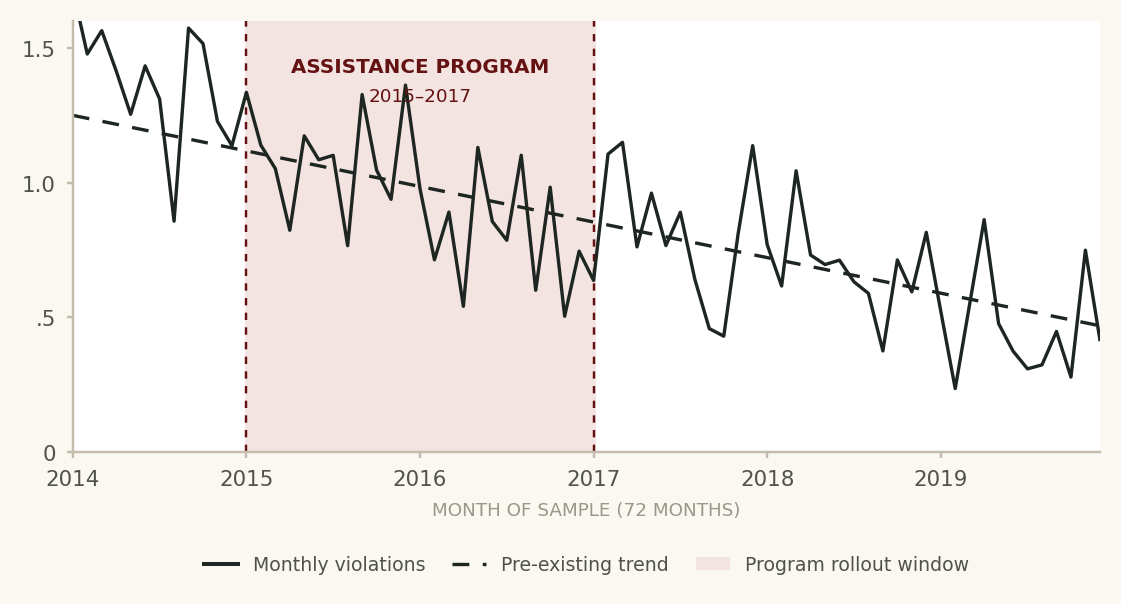
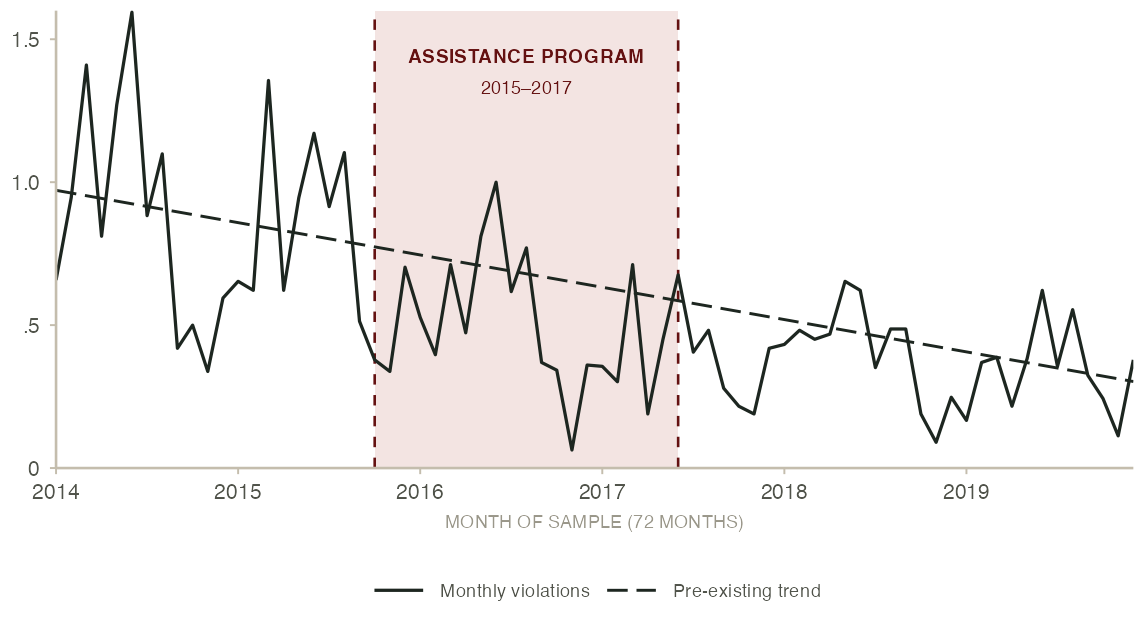
Style and layout fixes for EPA compliance workshops brief
- Add EIL logo (maroon) to masthead, replacing text placeholder
- Tighten spacing throughout to fit content on one page
- White page and figure backgrounds; reduced box padding
- Generate fig1 from real data; fix data path in make-fig1.R
- Use smaller font for implications columns; add \impcolsize command

Changed region(s): [[0.0, 0.0298, 0.9991, 0.8642], [0.1873, 0.894, 0.8742, 0.9536], [0.0312, 0.5066, 0.0624, 0.5364]]

diff --git a/briefs/2026-epa-compliance-workshops/text/_style.tex b/briefs/2026-epa-compliance-workshops/text/_style.tex
@@ -19,7 +19,7 @@
 \definecolor{warmrule}{HTML}{D8D2C2}   % thin warm-grey dividers
 \definecolor{paper}{HTML}{FAF8F1}      % warm page background
 
-\pagecolor{paper}                      % comment out for plain white pages
+% \pagecolor{paper}                    % uncomment for warm off-white background
 
 % ---- Fonts ----------------------------------------------------------
 % Source: Source Sans 3 / Source Serif 4. The CTAN packages below provide
@@ -32,7 +32,7 @@
 % ---- Page -----------------------------------------------------------
 \pagestyle{empty}
 \setlength{\parindent}{0pt}
-\setlength{\parskip}{6pt}
+\setlength{\parskip}{2pt}
 % default body size/colour (12.5px -> 9.4pt, line-height 1.45)
 \AtBeginDocument{\color{body}\fontsize{9.4pt}{13.6pt}\selectfont}
 
@@ -43,8 +43,10 @@
 \usepackage{tcolorbox}
 \tcbuselibrary{skins}
 
-% smaller size used inside the two-/three-column regions (11px -> 8.25pt)
-\newcommand{\colsize}{\color{muted}\fontsize{8.25pt}{11.7pt}\selectfont}
+% column regions — same size as body
+\newcommand{\colsize}{\color{muted}\fontsize{9.4pt}{13.6pt}\selectfont}
+% implications columns — smaller, matches target design
+\newcommand{\impcolsize}{\color{muted}\fontsize{8.25pt}{11.7pt}\selectfont}
 
 % =====================================================================
 %  MACROS
@@ -59,27 +61,27 @@
     \textls[200]{\MakeUppercase{#2}}%
   \end{minipage}
 
-  \vspace{6pt}
+  \vspace{2pt}
   \noindent\textcolor{ink}{\rule{\linewidth}{2.2pt}}
-  \vspace{9pt}
+  \vspace{-3pt}
 }
 
 % --- Title + citation (citation has a thin warm divider beneath) ------
 \newcommand{\brieftitle}[1]{%
-  {\color{ink}\fontsize{18pt}{19.5pt}\selectfont\bfseries\textls[-12]{#1}\par}\vspace{5pt}}
+  {\color{ink}\fontsize{18pt}{19.5pt}\selectfont\bfseries\textls[-12]{#1}\par}\vspace{3pt}}
 \newcommand{\briefcitation}[1]{%
-  {\color{cite}\fontsize{9.4pt}{12pt}\selectfont #1\par}\vspace{6pt}%
+  {\color{cite}\fontsize{9.4pt}{12pt}\selectfont #1\par}\vspace{3pt}%
   \noindent\textcolor{warmrule}{\rule{\linewidth}{0.7pt}}}
 
 % --- Section heads (13px 900 uppercase, ls 0.02em) -------------------
 \newcommand{\sectionhead}[1]{%
-  \vspace{8pt}{\color{ink}\bfseries\fontsize{9.75pt}{12pt}\selectfont
+  \vspace{2pt}{\color{ink}\bfseries\fontsize{9.75pt}{12pt}\selectfont
   \textls[20]{\MakeUppercase{#1}}\par}\vspace{1pt}}
 % with a 2px ink rule beneath (IMPLICATIONS)
 \newcommand{\sectionheadruled}[1]{%
-  \vspace{8pt}{\color{ink}\bfseries\fontsize{9.75pt}{12pt}\selectfont
+  \vspace{5pt}{\color{ink}\bfseries\fontsize{9.75pt}{12pt}\selectfont
   \textls[20]{\MakeUppercase{#1}}\par}%
-  \vspace{4pt}\noindent\textcolor{ink}{\rule{\linewidth}{1.5pt}}\vspace{5pt}}
+  \vspace{3pt}\noindent\textcolor{ink}{\rule{\linewidth}{1.5pt}}\vspace{3pt}}
 
 % --- Sub-heads -------------------------------------------------------
 % small uppercase (11px, ls 0.05em) — WHY COMPLIANCE MATTERS
@@ -88,8 +90,8 @@
   \textls[50]{\MakeUppercase{#1}}\par}\vspace{2pt}}
 % 2px ink top rule + title-case bold heading — Funding / Oversight
 \newcommand{\colhead}[1]{%
-  \noindent\textcolor{ink}{\rule{\linewidth}{1.5pt}}\par\vspace{4pt}%
-  {\color{ink}\bfseries\fontsize{9pt}{11pt}\selectfont #1\par}\vspace{2pt}}
+  \noindent\textcolor{ink}{\rule{\linewidth}{1.5pt}}\par\vspace{2pt}%
+  {\color{ink}\bfseries\fontsize{9pt}{11pt}\selectfont #1\par}\vspace{1pt}}
 
 % --- Figure title ----------------------------------------------------
 \newcommand{\figtitle}[2]{%
@@ -114,14 +116,14 @@
 \newtcolorbox{bottomline}{%
   enhanced, arc=4pt, outer arc=4pt, boxrule=0pt,
   colback=boxred, coltext=boxtext,
-  left=15pt, right=15pt, top=12pt, bottom=13pt,
+  left=7pt, right=7pt, top=7pt, bottom=7pt,
   before upper={{\fontsize{7.1pt}{9pt}\selectfont\textls[120]{%
-    \bfseries\textcolor{labeltan}{BOTTOM LINE}}}\par\vspace{6pt}%
+    \bfseries\textcolor{labeltan}{BOTTOM LINE}}}\par\vspace{3pt}%
     \fontsize{9.4pt}{13.6pt}\selectfont}}
 
 % --- Pull-quote box (serif, 13.5px -> 10.1pt, with rose border) ------
 \newtcolorbox{pullquote}{%
   enhanced, arc=4pt, outer arc=4pt, boxrule=0.7pt,
   colback=rosebg, colframe=roseborder, coltext=ink,
-  left=15pt, right=15pt, top=13pt, bottom=14pt,
+  left=7pt, right=7pt, top=7pt, bottom=7pt,
   fontupper={\rmfamily\fontsize{10.1pt}{14.7pt}\selectfont}}